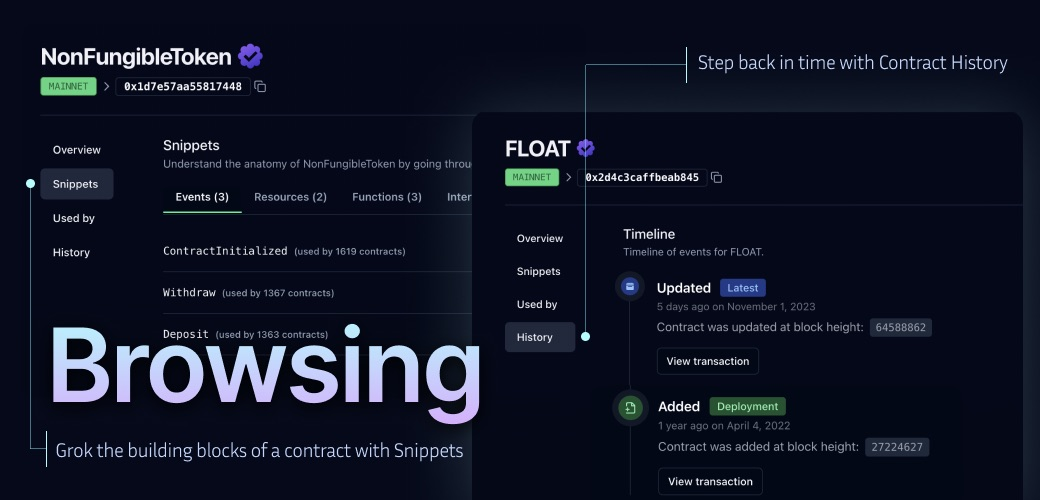
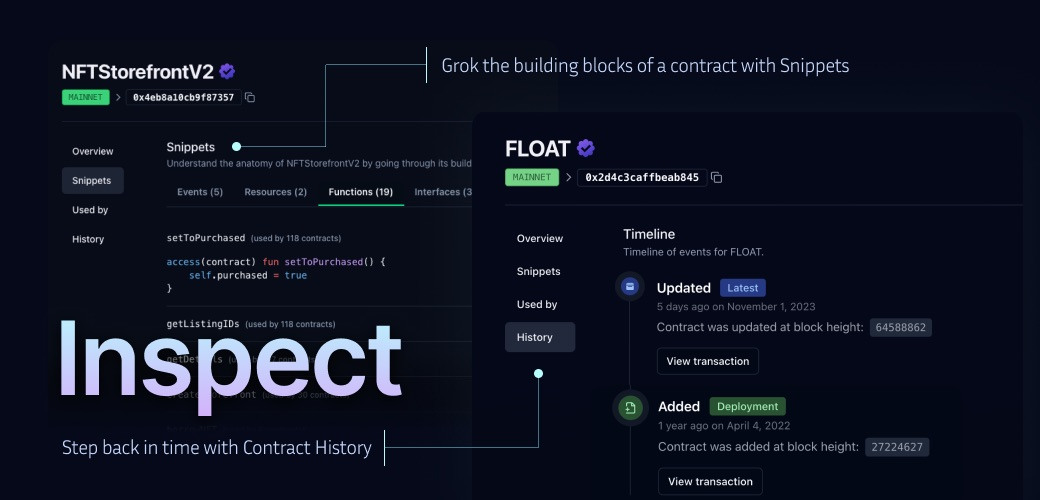
added snippets page

diff --git a/app/(platform)/snippet/[snippetId]/page.tsx b/app/(platform)/snippet/[snippetId]/page.tsx
@@ -1,0 +1,64 @@
+"use client"
+
+import CadenceBlock from "@/components/ui/CadenceBlock"
+import { Badge } from "@/components/ui/badge"
+import { columns } from "@/components/tables/ContractTableColumns"
+import { Tabs, TabsContent, TabsList, TabsTrigger } from "@/components/ui/tabs"
+import { useSnippet } from "@/hooks/useSnippet"
+import { AccordionItem, AccordionTrigger, AccordionContent } from "@radix-ui/react-accordion"
+import { Accordion, Button } from "flowbite-react"
+import { Link } from "lucide-react"
+import { useParams } from "next/navigation"
+import { DataTable } from "@/components/tables/DataTable"
+import { Skeleton } from "@/components/ui/skeleton"
+
+export default function SnippetPage() {
+  const { snippetId } : { snippetId: string} = useParams()
+  const snippet = useSnippet(snippetId)
+
+  return (
+    <div className="space-y-6 pt-4 pb-16 flex flex-col flex-1">
+    <div className="space-y-2">
+      <h2 className="text-3xl items-center flex gap-2 font-bold tracking-tight">
+        <span className="">{snippet?.name || <Skeleton className="w-[30vw] h-10" />}</span>
+      </h2>
+      <div className="flex items-center">
+        {snippet ? <Badge variant="secondary" className="font-mono rounded-sm text-sm">{snippet?.type}</Badge>
+        : <Skeleton className="w-[100px] h-6" />}
+      </div>
+    </div>
+
+    <div className="flex flex-col flex-1 space-y-8 lg:flex-row lg:space-x-12 lg:space-y-0">
+    <Tabs defaultValue={"code"} className="relative mr-auto w-full">
+        <div className="flex items-center justify-between pb-3">
+          <TabsList className="w-full justify-start rounded-none border-b bg-transparent p-0">
+            <TabsTrigger
+              value="code"
+              className="relative h-9 rounded-none border-b-2 border-b-transparent bg-transparent px-4 pb-3 pt-2 font-semibold text-muted-foreground shadow-none transition-none data-[state=active]:border-b-primary data-[state=active]:text-foreground data-[state=active]:shadow-none"
+            >
+              Code
+            </TabsTrigger>
+            <TabsTrigger
+              value="contracts"
+              className="relative h-9 rounded-none border-b-2 border-b-transparent bg-transparent px-4 pb-3 pt-2 font-semibold text-muted-foreground shadow-none transition-none data-[state=active]:border-b-primary data-[state=active]:text-foreground data-[state=active]:shadow-none"
+            >
+              Contracts ({snippet?.contracts_count || 0})
+            </TabsTrigger>
+          </TabsList>
+        </div>
+        <TabsContent value="code" className="">
+          {snippet?.code ? <CadenceBlock code={snippet?.code} /> : <Skeleton className="w-full h-[400px]" />}
+        </TabsContent>
+
+        <TabsContent value="contracts" className="">
+        <div className="pb-4 font-semibold">
+          Contracts that use <span className="font-mono">{snippet?.name}</span>
+        </div>
+          <DataTable columns={columns} data={snippet?.contracts} />
+        </TabsContent>
+
+      </Tabs>
+    </div>
+  </div>
+  )
+}

diff --git a/hooks/useSnippet.tsx b/hooks/useSnippet.tsx
@@ -1,0 +1,79 @@
+import { ContractSearchResponseType, SnippetsResponse } from "@/lib/types"
+import { extractSnippetName } from "@/lib/utils"
+import { useState, useEffect } from "react"
+
+function createGetDataFunction(cacheKeySuffix, pathSuffix) {
+  return async function getData(snippetId, network) {
+    const cacheKey = `${cacheKeySuffix}_${snippetId}`
+    const cachedData = localStorage.getItem(cacheKey)
+    if (cachedData) {
+      return JSON.parse(cachedData)
+    }
+
+    const path = `${process.env.NEXT_PUBLIC_BASE_DOMAIN}/api/snippets/${snippetId}/${pathSuffix}?network=${network || "mainnet"}`
+    console.log('fetching..', path)
+    const res = await fetch(path)
+
+    if (!res.ok) {
+      // This will activate the closest `error.js` Error Boundary
+      throw new Error('Failed to fetch data')
+    }
+
+    const data = await res.json()
+    localStorage.setItem(cacheKey, JSON.stringify(data))
+    localStorage.setItem(`${cacheKey}_timestamp`, Date.now().toString())
+
+    return data
+  }
+}
+
+
+export function useSnippet(snippetId: string) {
+
+  const [ snippet, setSnippet ] = useState(null)
+
+  const getSnippetData = createGetDataFunction("snippetData", "");
+  const getSnippetContractData = createGetDataFunction("snippetContractData", "contracts");
+
+
+  useEffect(() => {
+
+    getSnippetData(snippetId, "mainnet").then((snippetsResponse : SnippetsResponse) => {
+      const snippet = snippetsResponse.data
+
+      snippet.name = extractSnippetName(snippet.code)
+  
+      setSnippet((prev) => {
+        return {
+          ...prev,
+          ...snippet
+        }
+      })
+    })
+
+    getSnippetContractData(snippetId, "mainnet").then((snippetContractsResponse : ContractSearchResponseType) => {
+      const contracts = snippetContractsResponse.data.contracts
+
+      setSnippet((prev) => {
+        return {
+          ...prev,
+          contracts,
+        }
+      })
+    })
+  }, [snippetId])
+
+  useEffect(() => {
+    const cacheKeys = [`snippetData_${snippetId}`, `snippetContractData_${snippetId}`]
+    const now = Date.now()
+    cacheKeys.forEach((key) => {
+      const timestamp = localStorage.getItem(`${key}_timestamp`)
+      if (timestamp && now - parseInt(timestamp) > 24 * 60 * 60 * 1000) {
+        localStorage.removeItem(key)
+        localStorage.removeItem(`${key}_timestamp`)
+      }
+    })
+  }, [snippetId])
+
+  return snippet
+}

diff --git a/hooks/useContract.tsx b/hooks/useContract.tsx
@@ -1,6 +1,6 @@
 import { ContractResponseType, DependantsResponseType, DeploymentsResponseType, FullContract, SnippetsResponse } from "@/lib/types"
 import { useState, useEffect } from "react"
-import { getContractAddress, getNetworkFromAddress } from "@/lib/utils"
+import { extractSnippetName, getContractAddress, getNetworkFromAddress } from "@/lib/utils"
 
 function createGetDataFunction(cacheKeySuffix, pathSuffix) {
   return async function getData(uuid) {
@@ -68,14 +68,10 @@ export function useContract(uuid: string) {
     })
 
     getSnippetData(uuid).then((snippetsResponse : SnippetsResponse) => {
-      // console.log("setting snippets data", {...snippetsResponse.data})
       const snippets = snippetsResponse.data.snippets
 
-      const regex = /^ *(pub|priv|access\(self\)|access\(contract\)|access\(all\)|access\(account\)|pub\(set\))? *(resource|struct|fun|event|resource *interface) * (?<name>(?!interface)[A-Za-z_][A-Za-z0-9_]*)/
-
       snippets.map((snippet, i) => {
-        //console.log(snippet.code.match(regex)?.groups?.name)
-        snippets[i].name = snippet.code.match(regex)?.groups?.name
+        snippets[i].name = extractSnippetName(snippet.code)
       })
 
       snippetsResponse.data.snippets = snippets
@@ -103,7 +99,7 @@ export function useContract(uuid: string) {
   }, [uuid])
 
   useEffect(() => {
-    const cacheKeys = [`basicData_${uuid}`, `deploymentData_${uuid}`, `dependantData_${uuid}`]
+    const cacheKeys = [`basicData_${uuid}`, `deploymentData_${uuid}`, `dependantData_${uuid}`, `snippetData_${uuid}`]
     const now = Date.now()
     cacheKeys.forEach((key) => {
       const timestamp = localStorage.getItem(`${key}_timestamp`)

diff --git a/app/(platform)/[contractId]/snippets/page.tsx b/app/(platform)/[contractId]/snippets/page.tsx
@@ -12,6 +12,8 @@ import {
   AccordionItem,
   AccordionTrigger,
 } from "@/components/ui/accordion"
+import { Button } from "@/components/ui/button";
+import Link from "next/link";
 
 export default function SnippetsPage() {
   const contractId = useParams().contractId as string
@@ -85,17 +87,16 @@ export default function SnippetsPage() {
                 </AccordionTrigger>
                 <AccordionContent>
                   <CadenceBlock code={snippet.code} />
+
+                  <Link href={"/snippet/" + snippet.code_hash}>
+                  <Button variant="outline" size="sm" className="mt-3">
+                    View snippet
+                  </Button>
+                  </Link>
                 </AccordionContent>
               </AccordionItem>
             ))}
           </Accordion>
-            {/* <ul>
-              {contract.snippetsObject.snippets.filter(snippet => snippet.type === type).map((snippet, index) => (
-                <li>
-                  <div><CadenceBlock code={snippet.code} /></div>
-                </li>
-              ))}
-            </ul> */}
           </TabsContent>
         </>
         )}

diff --git a/app/(api)/api/snippets/[snippetId]/contracts/route.ts b/app/(api)/api/snippets/[snippetId]/contracts/route.ts
@@ -1,0 +1,19 @@
+import { ContractSearchResponseType } from "@/lib/types";
+
+export async function GET( request: Request, { params } : { params: { snippetId: string } }) {
+
+  const { searchParams } = new URL(request.url)
+  const network = searchParams.get('network') || 'mainnet'
+  const snippetId = params.snippetId
+
+  const options = {
+    method: 'GET',
+    headers: {
+      Authorization: `Bearer ${process.env.BACKEND_API_KEY}`
+    }
+  };
+
+  const res = await fetch(`${process.env.API_DOMAIN}/api/v2/snippets/${snippetId}/contracts/?network=${network}`, options)
+  const contracts : ContractSearchResponseType = await res.json()
+  return Response.json(contracts)
+}

diff --git a/app/(api)/api/snippets/[snippetId]/route.ts b/app/(api)/api/snippets/[snippetId]/route.ts
@@ -1,0 +1,19 @@
+import { SnippetResponse } from "@/lib/types";
+
+export async function GET( request: Request, { params } : { params: { snippetId: string } }) {
+
+  const { searchParams } = new URL(request.url)
+  const network = searchParams.get('network') || 'mainnet'
+  const snippetId = params.snippetId
+
+  const options = {
+    method: 'GET',
+    headers: {
+      Authorization: `Bearer ${process.env.BACKEND_API_KEY}`
+    }
+  };
+
+  const res = await fetch(`${process.env.API_DOMAIN}/api/v1/snippets/${snippetId}/?network=${network}`, options)
+  const snippet : SnippetResponse = await res.json()
+  return Response.json(snippet)
+}

diff --git a/components/tables/DataTablePagination.tsx b/components/tables/DataTablePagination.tsx
@@ -25,7 +25,7 @@ export function DataTablePagination<TData>({
   return (
     <div className="flex items-center justify-between w-full mt-2">
       <div className="text-sm text-muted-foreground flex-1">
-        <span className="hidden md:flex ps-2">{table.getFilteredRowModel().rows.length} total items</span>
+        <span className="hidden md:flex ps-2">{table.getFilteredRowModel().rows.length} items loaded</span>
       </div>
       <div className="flex items-center w-full md:w-auto justify-between md:justify-center space-x-6 lg:space-x-8">
         <div className="flex items-center gap-x-2">

diff --git a/lib/utils.ts b/lib/utils.ts
@@ -233,3 +233,10 @@ export function debounce(func, wait, immediate = false) {
 export function calculateStringSizeInBytes(str: string): number {
   return new Blob([str]).size;
 }
+
+
+export function extractSnippetName(str: string): string {
+  const regex = /^ *(pub|priv|access\(self\)|access\(contract\)|access\(all\)|access\(account\)|pub\(set\))? *(resource|struct|fun|event|resource *interface) * (?<name>(?!interface)[A-Za-z_][A-Za-z0-9_]*)/
+  const match = str.match(regex)
+  return match?.groups?.name || ''
+}

diff --git a/components/blog/markdown-styles.module.css b/components/blog/markdown-styles.module.css
@@ -21,19 +21,19 @@
 }
 
 .markdown p:has(img) {
-  @apply max-w-4xl;
+  @apply max-w-3xl;
 }
 
 .markdown a {
-  @apply font-bold text-blue-600 hover:text-blue-500;
+  @apply font-bold text-cyan-500 hover:text-cyan-600 dark:text-cyan-400 hover:dark:text-cyan-500;
 }
 
 .markdown h2 {
-  @apply text-3xl mt-12 mb-4 leading-snug;
+  @apply text-3xl mt-12 mb-4 leading-snug font-bold;
 }
 
 .markdown h3 {
-  @apply text-2xl mt-8 mb-4 leading-snug;
+  @apply text-2xl mt-8 mb-4 leading-snug font-bold;
 }
 
 .markdown img {

diff --git a/components/tables/SearchContractTableColumns.tsx b/components/tables/SearchContractTableColumns.tsx
@@ -24,13 +24,6 @@ export const columns: ColumnDef<Contract>[] = [
       )
     }
   },
-  // {
-  //   accessorKey: "name",
-  //   header: "Name",
-  //   cell: ({ row }) => {
-  //     return <ContractBadge uuid={`${row.original.uuid}`} className="" />
-  //   }
-  // },
   {
     accessorKey: "dependants_count",
     header: () => <div className="text-right">Used by</div>,

diff --git a/lib/cadencehighlighter.ts b/lib/cadencehighlighter.ts
@@ -33,7 +33,7 @@ class CadenceHighlighter {
       await this.waitForInstanceReady();
     }
 
-    const tree = this.starryNight.highlight(code, 'source.cadence');
+    const tree = this.starryNight.highlight(code || '', 'source.cadence');
     const html = toHtml(tree);
     return html;
   }

diff --git a/components/ui/CadenceBlock.tsx b/components/ui/CadenceBlock.tsx
@@ -13,6 +13,6 @@ export default function CadenceBlock({ code }) {
   }, [code])
 
   return (
-    <pre><code dangerouslySetInnerHTML={{ __html: htmlx}}></code></pre>
+    <pre className="p-3 border rounded-md"><code dangerouslySetInnerHTML={{ __html: htmlx}}></code></pre>
   )
 }
